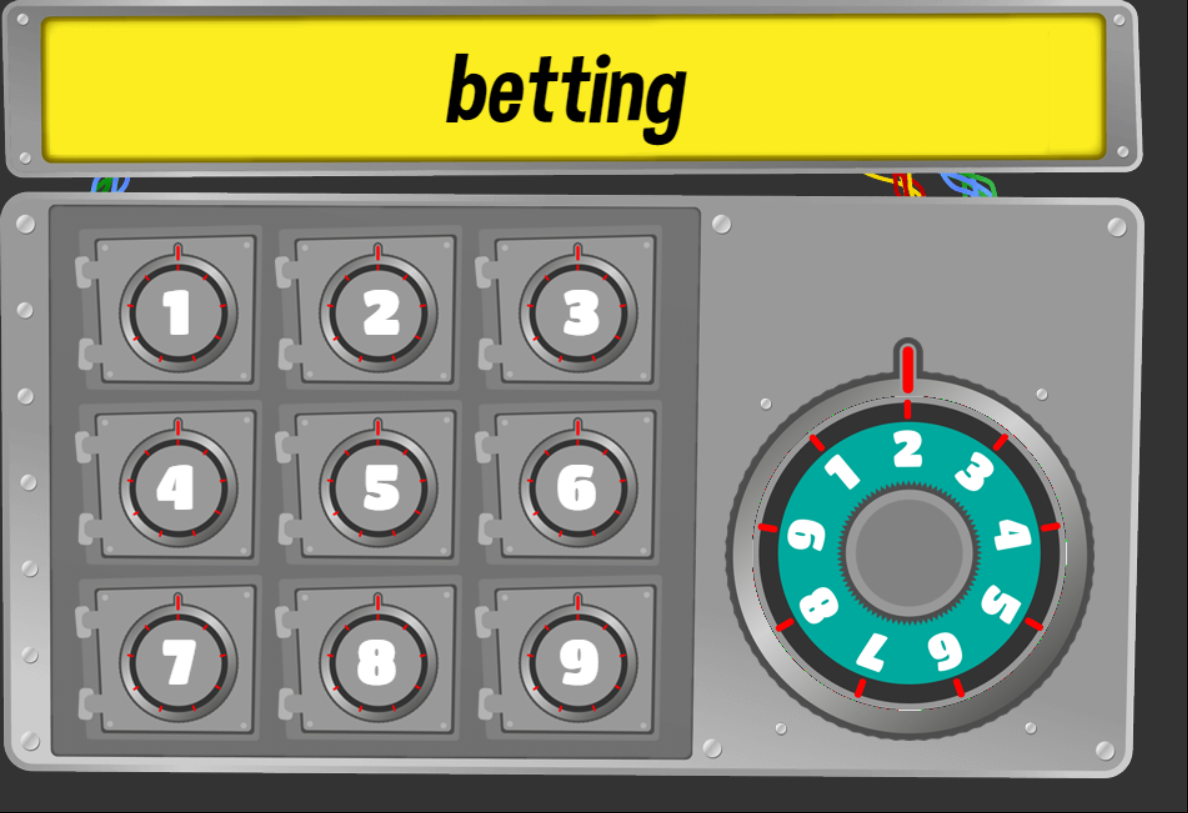
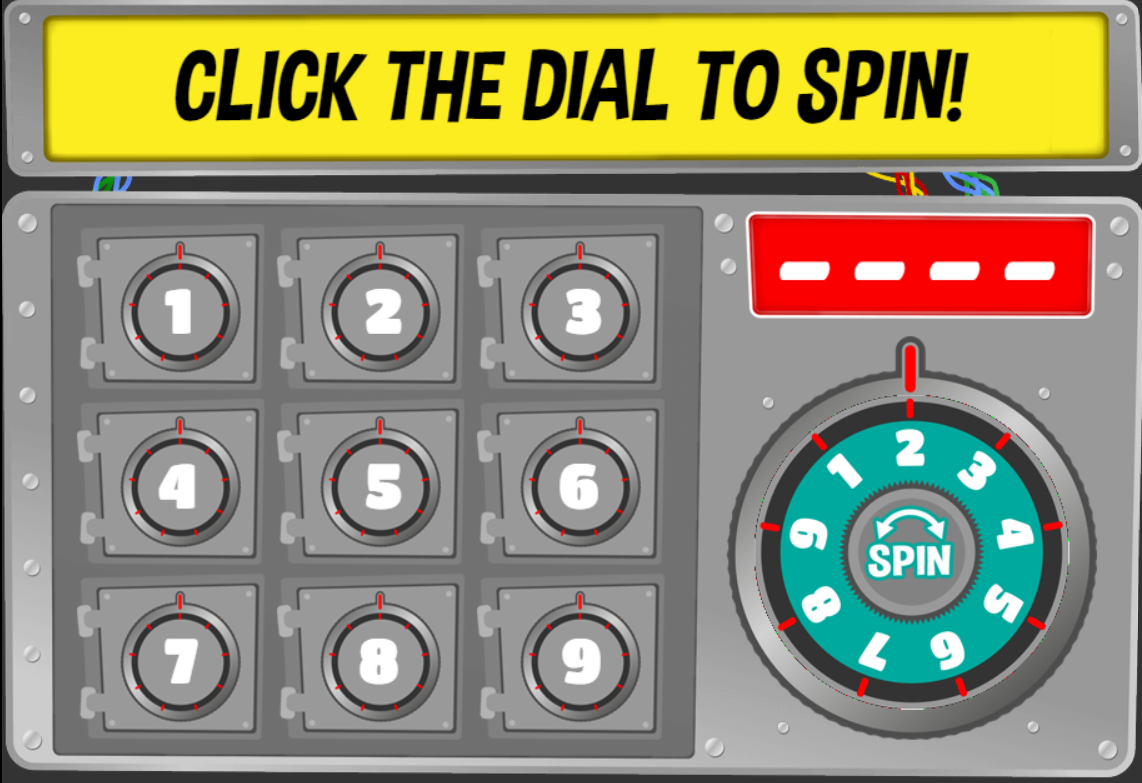
Added on website

diff --git a/InTouch/Safe.html b/InTouch/Safe.html
@@ -4,17 +4,53 @@
         <title>Sebs Safe Game</title>
         <meta charset="UTF-8" />
         <link rel="stylesheet" type="text/css" href="styles.css" />
+        <link rel="stylesheet" href="../main.css">
         <link href="https://fonts.googleapis.com/css?family=Titan+One&display=swap" rel="stylesheet">
     </head>
-
     <body>
-        <canvas id="Buca" width="920" height="630"></canvas>
-        
-        <script src="initialise.js"></script>
-        <script src="multipliers.js"></script>
-        <script src="dial.js"></script>
-        <script src="mouse.js"></script>
-        <script src="safe.js"></script>
-        <script src="main.js"></script>
-    </body>
+        <section class="about noselect" unselectable="on"; unselectable="on" onselectstart="return false;" onmousedown="return false;" id="about" style="margin-bottom:48rem">
+            <div class="section-heading">
+                <h1>Playable Ad</h1>
+                <h6>Click and drag to shoot</h6>
+                <canvas class="has-border" id="Buca" width="920" height="630"></canvas>
+            </div>
+        </section>
+    </body>    
+    
+    
+    <script>
+    var index = localStorage.getItem("randomInt");
+    var ColourBg = "06366D"; // default color - white (index = 0)
+    var ColourOutline = "46D3AC"; // default color - white (index = 0)
+    var ColourFill = "EDB566"; // default color - white (index = 0)
+
+    if(index == 1){
+        ColourBg = "674d3c"; 
+        ColourOutline = "ff6f69";
+        ColourFill = "ffcc5c";
+    }
+    if(index == 2){
+        ColourBg = "3F1D55";
+        ColourOutline = "46D3AC";
+        ColourFill = "FDBFFE";
+    }
+    if(index == 3){
+        ColourBg = "2F4F4F";
+        ColourOutline = "0496FF";
+        ColourFill = "eee";
+    }
+
+    document.documentElement.style
+    .setProperty('--bg', "#" + ColourBg);
+    document.documentElement.style
+    .setProperty('--outline', "#" + ColourOutline);
+    document.documentElement.style
+    .setProperty('--fill', "#" + ColourFill);
+    </script>
+    <script src="initialise.js"></script>
+    <script src="multipliers.js"></script>
+    <script src="dial.js"></script>
+    <script src="mouse.js"></script>
+    <script src="safe.js"></script>
+    <script src="main.js"></script>
 </html>

diff --git a/InTouch/main.js b/InTouch/main.js
@@ -1,12 +1,12 @@
 var clickable = true;
 var betAmount; // £10 bet
-var headString = "You bet £";
+var headString;
+var gameover = false;
 
 cvs.addEventListener('mousedown', function(e){
 console.log(clickable);
     // Get canvas position on page
     var canvasBounds = cvs.getBoundingClientRect();
-
     // Turn click coordinates into canvas coordinates 1
     var localX = e.pageX - canvasBounds.left;
     var localY = e.pageY - canvasBounds.top;
@@ -16,6 +16,12 @@ console.log(clickable);
             clickable = false;
             genNumber();
         }
+    }    
+});
+
+cvs.addEventListener('mousedown', function(e){
+    if(gameover===true){
+        window.location.reload(true);
     }
 });
 
@@ -26,10 +32,15 @@ function main(){
     betAmount = 10;
 }
 
+function gameEnd(){
+    console.log("gameover"+gameover);
+    gameover = true;
+}
+
 function win(){
+    setTimeout(gameEnd, 5000);
     angle=angle+1000000;
     headingText("YOU WIN £"+betAmount*getWinningInt());
     setTimeout(rotateAntiCL, 1000);
 }
-
 main();

diff --git a/main.css b/main.css
@@ -702,4 +702,12 @@ border: 1px solid #3079ED;
         box-shadow: 0 0 0 0 rgba(253, 87, 191, 0);
     }
 }
+@font-face {
+  font-family: 'Dimbo';
+  font-style: normal;
+  font-weight: 400;
+  src: local('Amatica SC'),
+       local('AmaticaSC-Regular'),
+       url(fonts/Dimbo.ttf) format('truetype');
+}
 /*end animation*/
